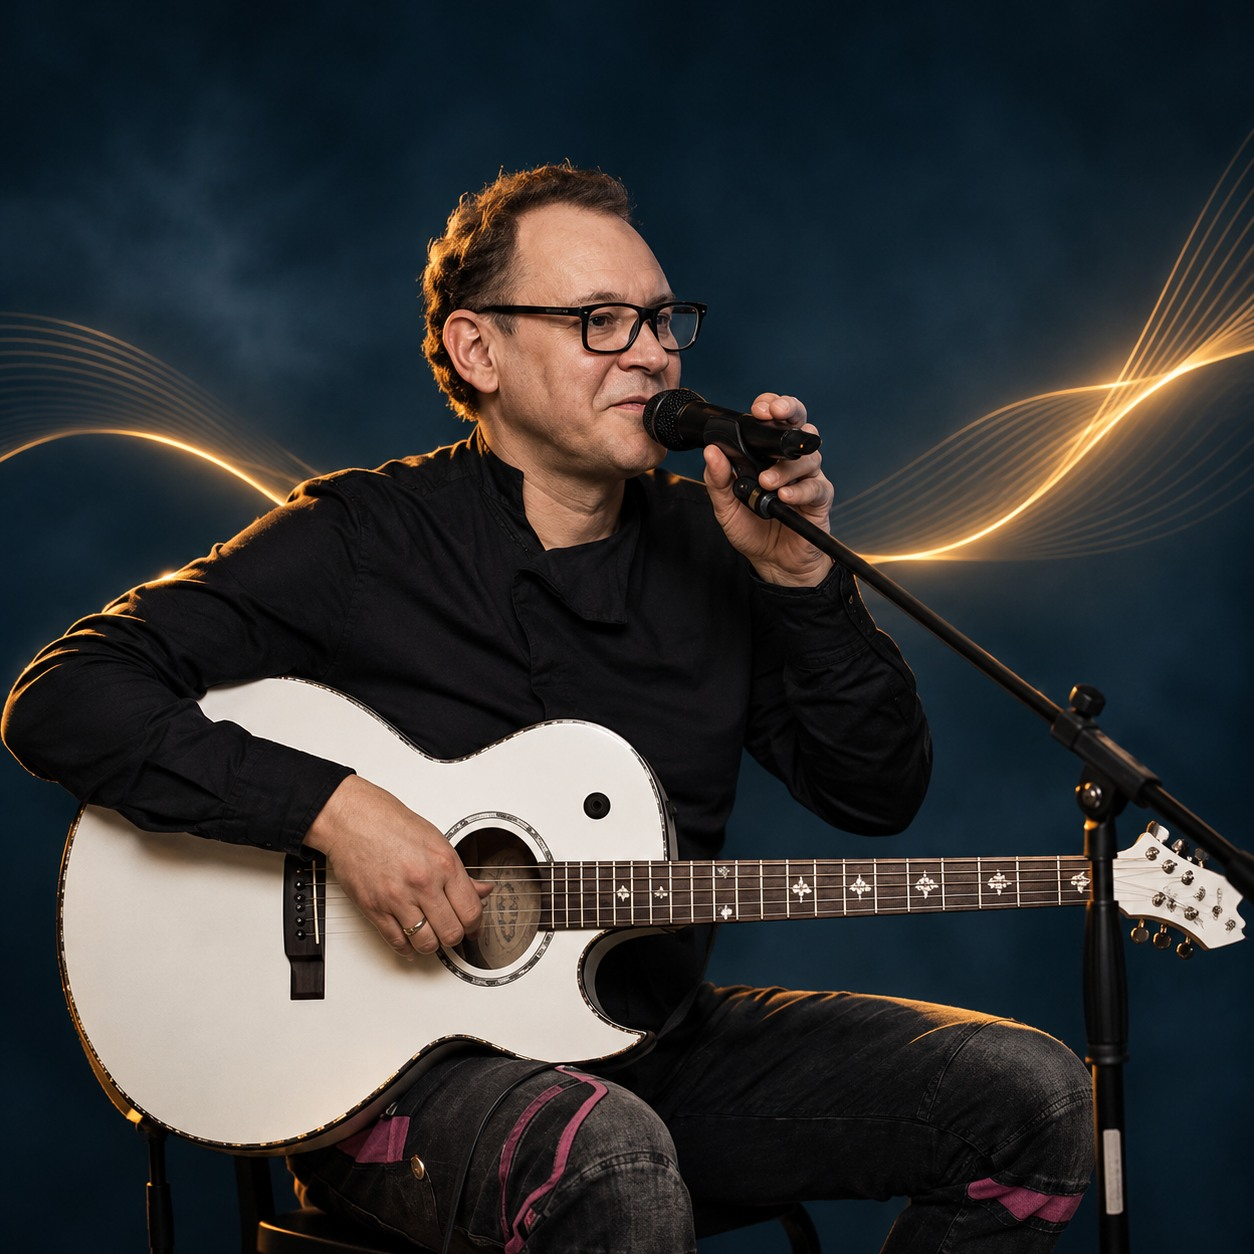
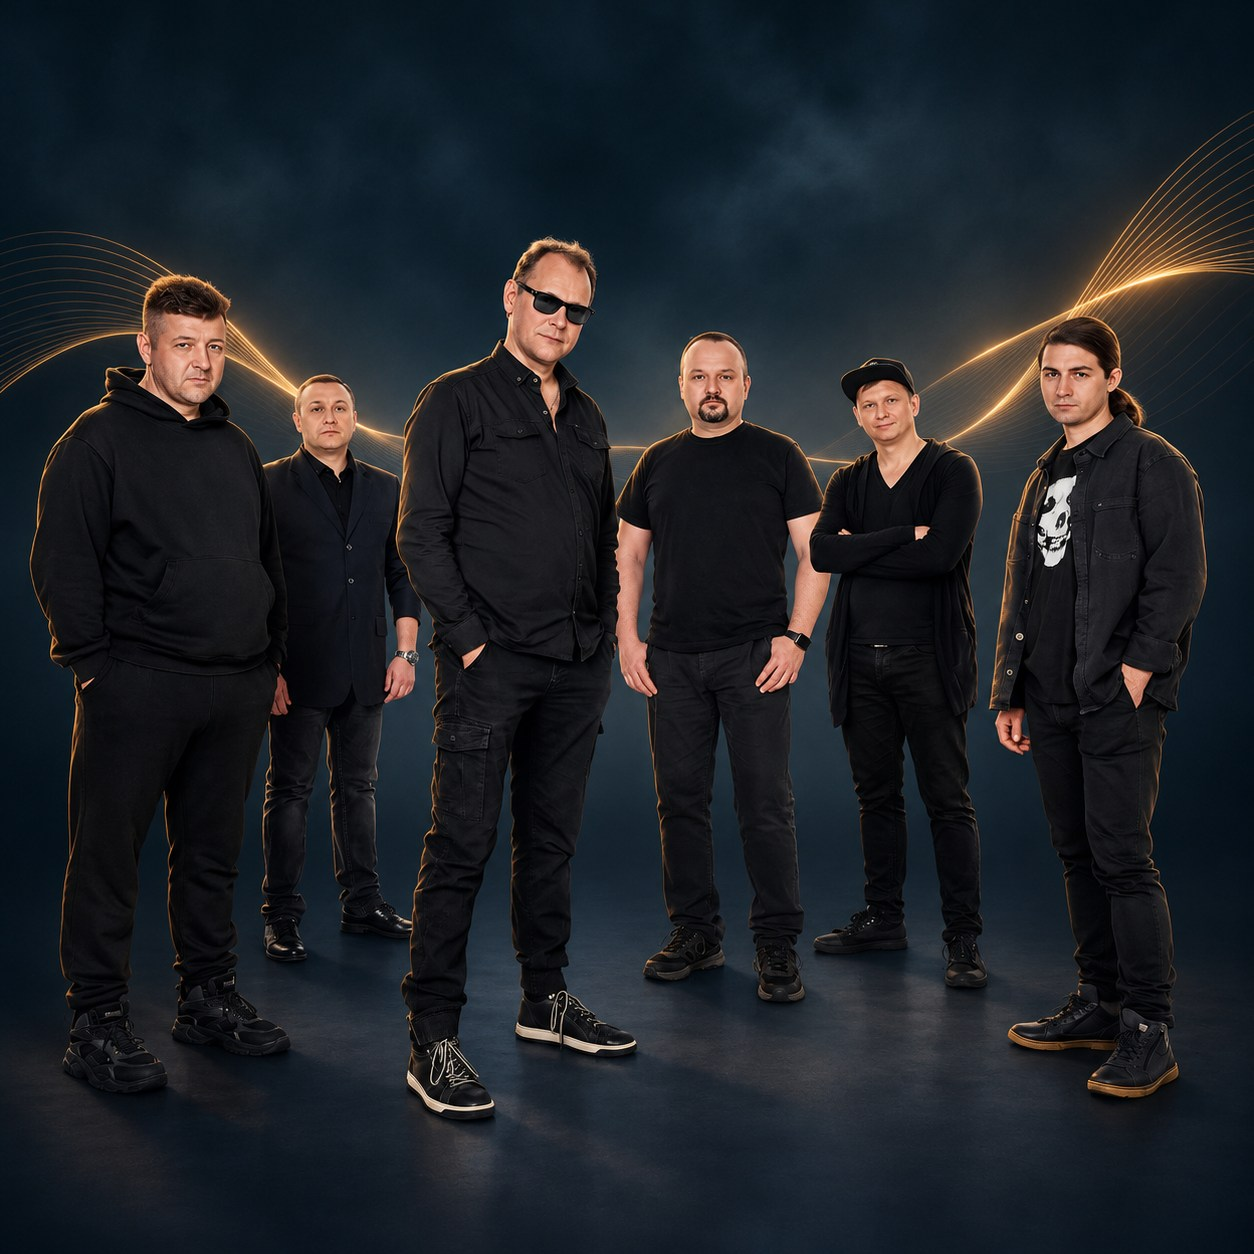
Add files via upload

diff --git a/index.html b/index.html
@@ -113,6 +113,16 @@
           <p class="guest-description">Поэт<br>Артист<br>Режиссёр Московского театра поэтов Влада Маленко</p>
         </article>
         <article class="guest-card">
+          <div class="guest-photo"><img src="images/guests/roman-mekh.jpg" alt="Роман Мех" loading="lazy" onerror="this.style.display='none'"><span class="photo-fallback">РМ</span></div>
+          <h3>Роман Мех</h3>
+          <p class="guest-description">Военный корреспондент<br>Фотограф<br>Публицист</p>
+        </article>
+        <article class="guest-card">
+          <div class="guest-photo"><img src="images/guests/andrey-filimonov-papirus.jpg" alt="Андрей Филимонов — Папирус" loading="lazy" onerror="this.style.display='none'"><span class="photo-fallback">АФ</span></div>
+          <h3>Андрей Филимонов «Папирус»</h3>
+          <p class="guest-description">Блогер<br>Писатель, автор книг<br>Общественный деятель</p>
+        </article>
+        <article class="guest-card">
           <div class="guest-photo"><img src="images/guests/boris-legenda.jpg" alt="Борис Легенда" loading="lazy" onerror="this.style.display='none'"><span class="photo-fallback">БЛ</span></div>
           <h3>Борис Легенда</h3>
           <p class="guest-description">Видеопродюсер<br>Блогер<br>Автор медиапроектов</p>
